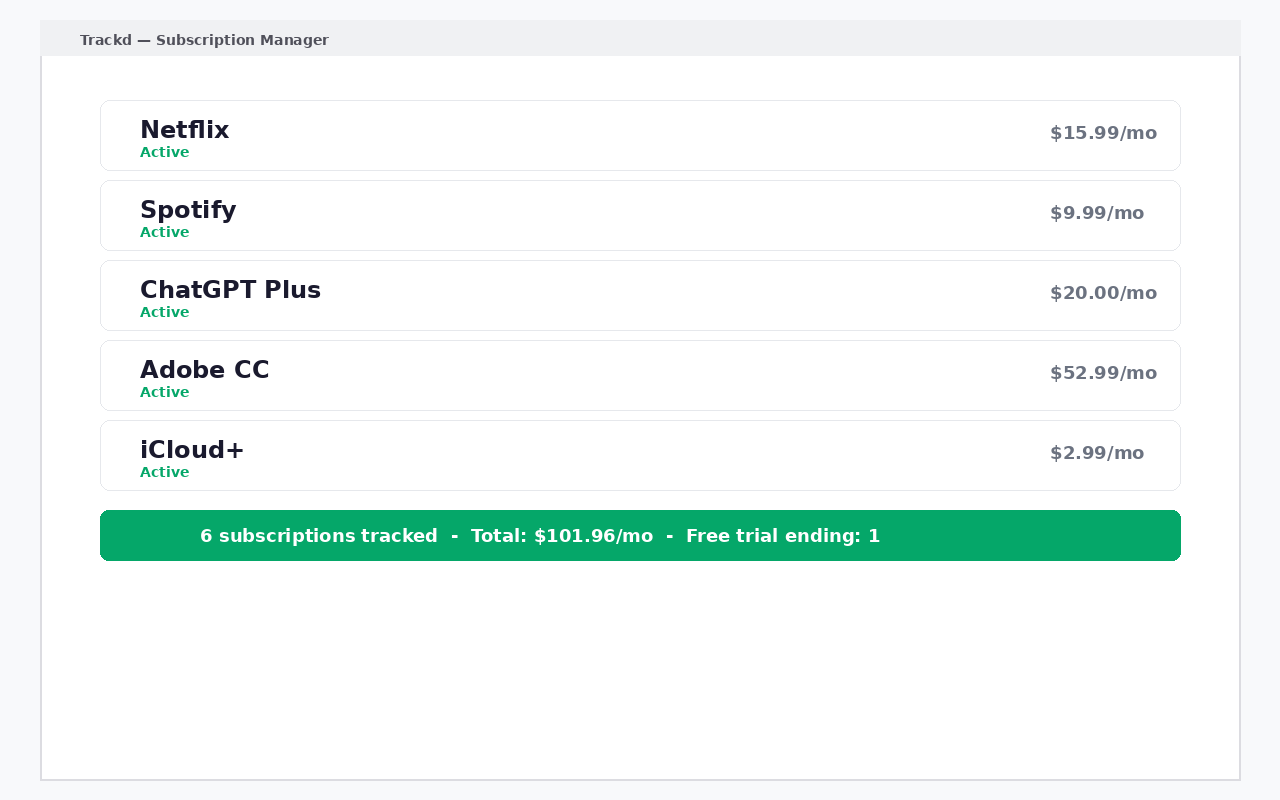
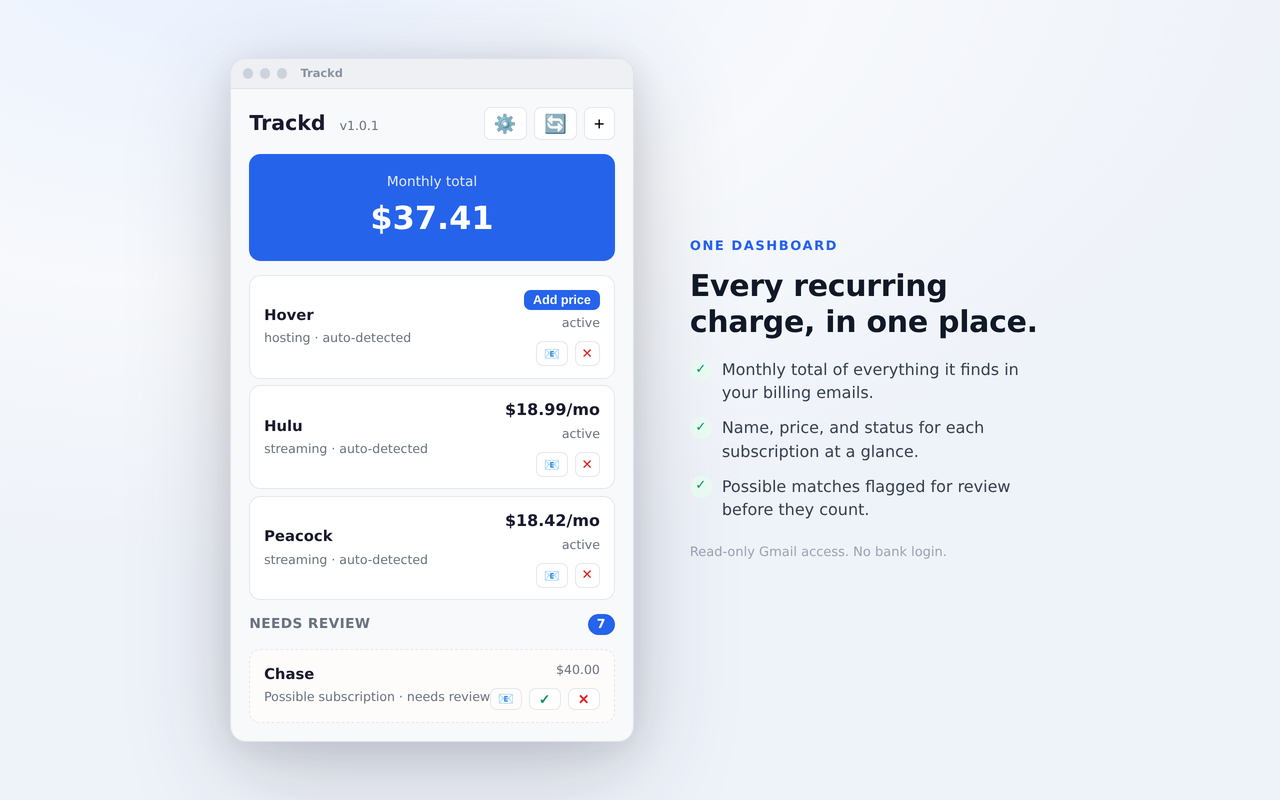
Replace store screenshots with faithful high-res mockups of the real popup UI (dashboard, settings/Pro, needs-review); update captions

diff --git a/index.html b/index.html
@@ -714,16 +714,16 @@
     <h2>See it in action</h2>
     <div class="screenshot-grid">
       <figure>
-        <img src="store_screenshot_1.png" alt="Trackd subscription list view" loading="lazy" />
+        <img src="store_screenshot_1.png" alt="Trackd dashboard listing subscriptions with a monthly total" loading="lazy" />
         <figcaption class="shot-caption">Every recurring charge in one place</figcaption>
       </figure>
       <figure>
-        <img src="store_screenshot_2.png" alt="Trackd subscription details" loading="lazy" />
-        <figcaption class="shot-caption">Name, price, and renewal date at a glance</figcaption>
+        <img src="store_screenshot_2.png" alt="Trackd settings showing the Pro license key field and upgrade link" loading="lazy" />
+        <figcaption class="shot-caption">Free up to 10 subs, Pro removes the cap</figcaption>
       </figure>
       <figure>
-        <img src="store_screenshot_3.png" alt="Trackd free to Pro upgrade" loading="lazy" />
-        <figcaption class="shot-caption">Free for up to 10 subscriptions, Pro removes the cap</figcaption>
+        <img src="store_screenshot_3.png" alt="Trackd needs-review list with confirm and dismiss actions" loading="lazy" />
+        <figcaption class="shot-caption">Confirm what you pay for, dismiss the rest</figcaption>
       </figure>
     </div>
   </section>
